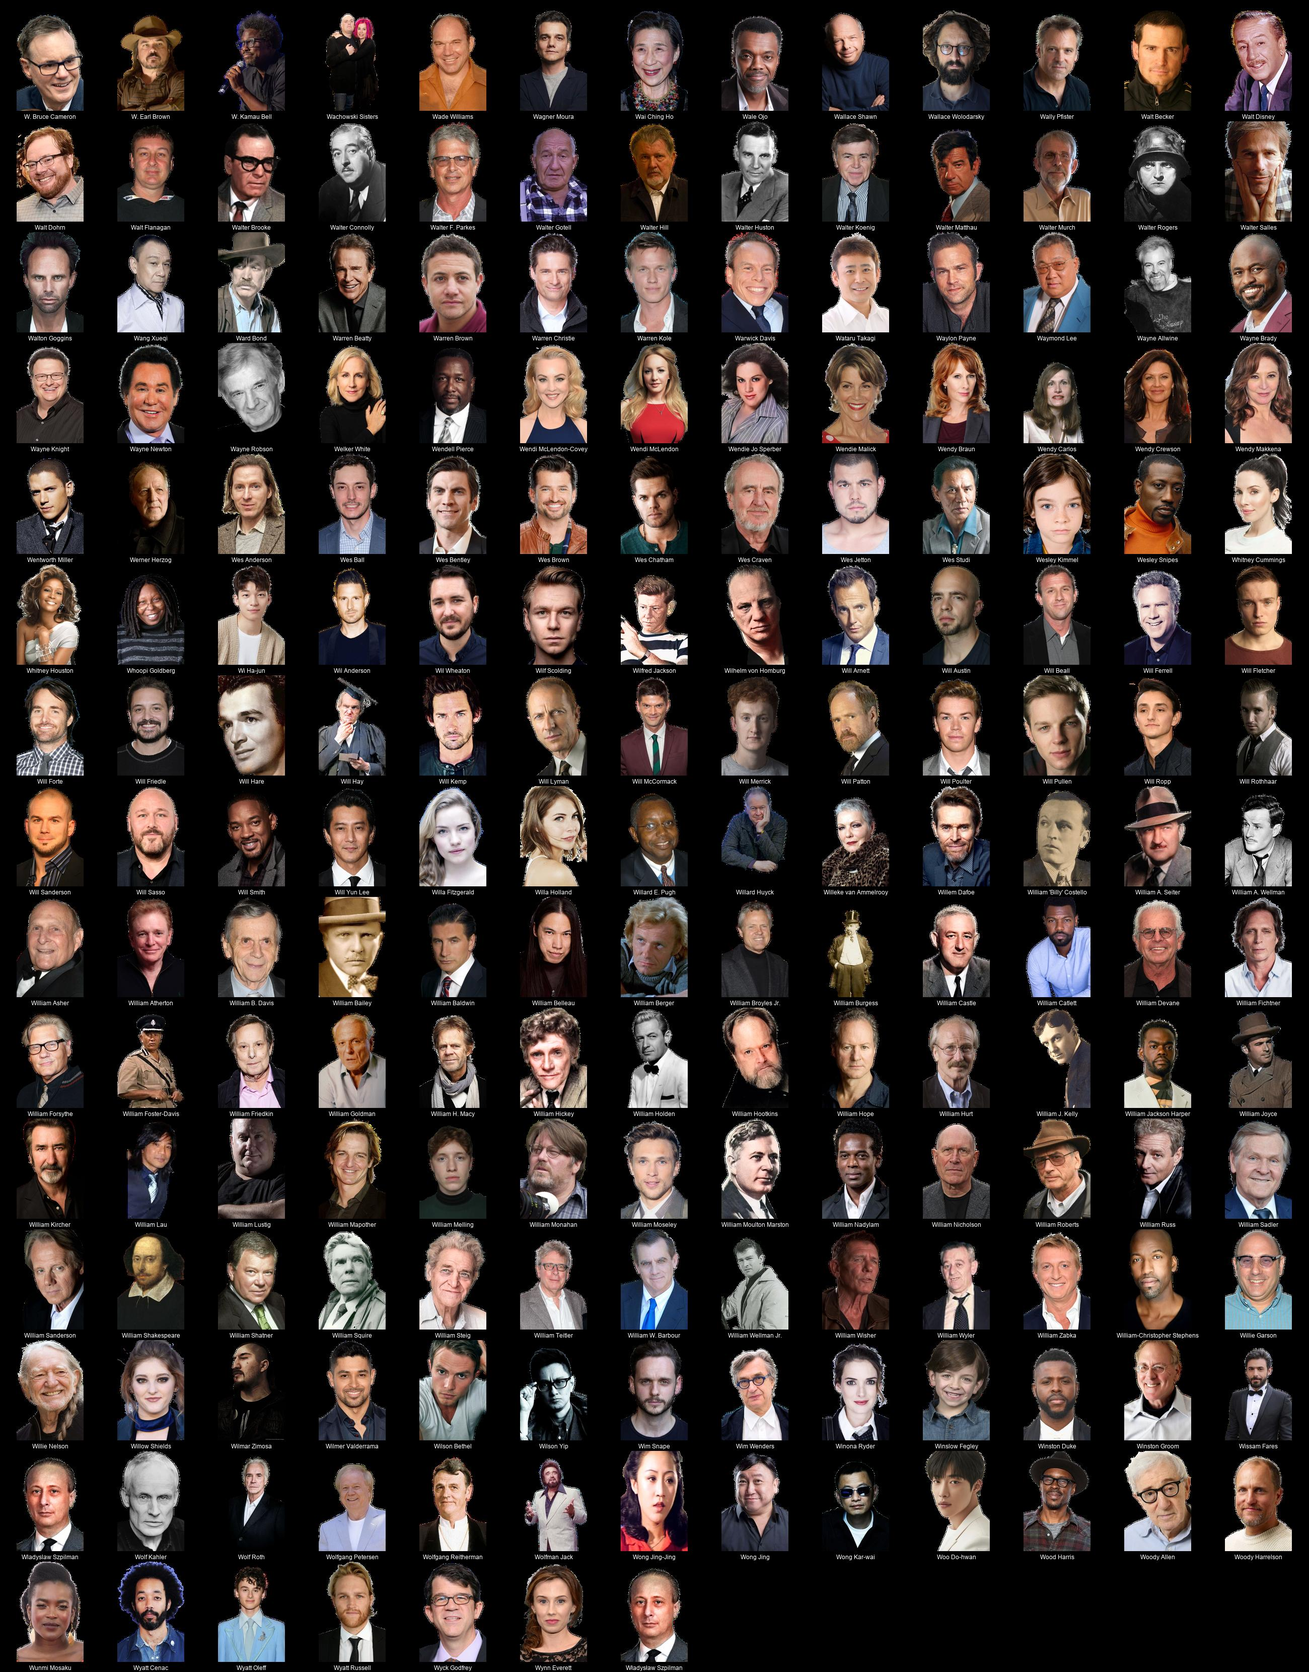
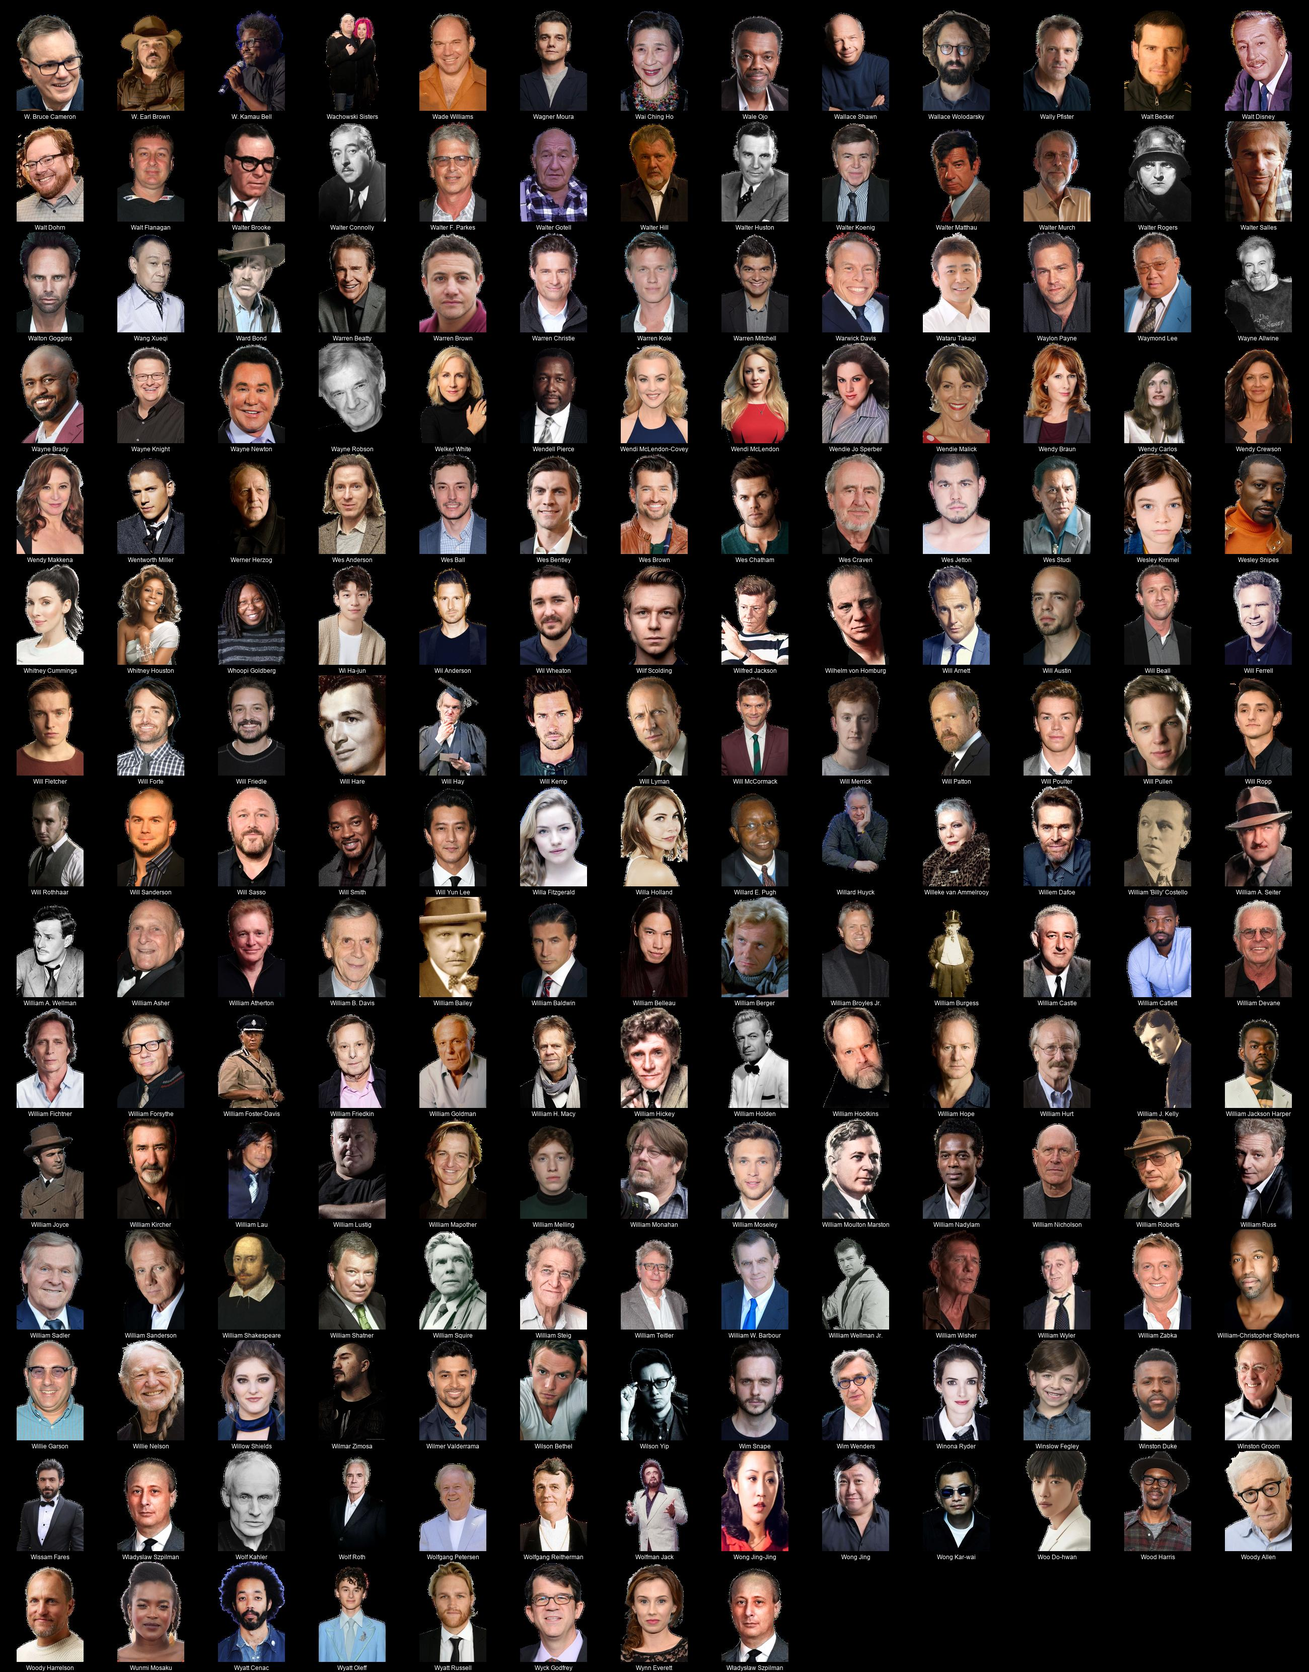
more peeps

diff --git a/README.md b/README.md
@@ -1,4 +1,4 @@
-# Kometa People Images - Transparent (transparent) (10902 Images)
+# Kometa People Images - Transparent (transparent) (10910 Images)
 
 <details><summary><a href="'">' (1 Images)</a></summary>
 
@@ -898,7 +898,7 @@
 * [Azhar Usman](https://raw.githubusercontent.com/Kometa-Team/People-Images-transparent/master/A/Images/Azhar%20Usman.png)
 * [Aziz Ansari](https://raw.githubusercontent.com/Kometa-Team/People-Images-transparent/master/A/Images/Aziz%20Ansari.png)
 </details>
-<details><summary><a href="B">B (546 Images)</a></summary>
+<details><summary><a href="B">B (547 Images)</a></summary>
 
 * [B.F. Blinn](https://raw.githubusercontent.com/Kometa-Team/People-Images-transparent/master/B/Images/B.F.%20Blinn.png)
 * [B.J. Penn](https://raw.githubusercontent.com/Kometa-Team/People-Images-transparent/master/B/Images/B.J.%20Penn.png)
@@ -1418,6 +1418,7 @@
 * [Bryan Singer](https://raw.githubusercontent.com/Kometa-Team/People-Images-transparent/master/B/Images/Bryan%20Singer.png)
 * [Bryan Sloyer](https://raw.githubusercontent.com/Kometa-Team/People-Images-transparent/master/B/Images/Bryan%20Sloyer.png)
 * [Bryan Unkeless](https://raw.githubusercontent.com/Kometa-Team/People-Images-transparent/master/B/Images/Bryan%20Unkeless.png)
+* [Bryan Woods](https://raw.githubusercontent.com/Kometa-Team/People-Images-transparent/master/B/Images/Bryan%20Woods.png)
 * [Bryce Dallas Howard](https://raw.githubusercontent.com/Kometa-Team/People-Images-transparent/master/B/Images/Bryce%20Dallas%20Howard.png)
 * [Bryce Johnson](https://raw.githubusercontent.com/Kometa-Team/People-Images-transparent/master/B/Images/Bryce%20Johnson.png)
 * [Bráulio Mantovani](https://raw.githubusercontent.com/Kometa-Team/People-Images-transparent/master/B/Images/Br%C3%A1ulio%20Mantovani.png)
@@ -2147,7 +2148,7 @@
 * [Cédric Klapisch](https://raw.githubusercontent.com/Kometa-Team/People-Images-transparent/master/C/Images/C%C3%A9dric%20Klapisch.png)
 * [Céline Sciamma](https://raw.githubusercontent.com/Kometa-Team/People-Images-transparent/master/C/Images/C%C3%A9line%20Sciamma.png)
 </details>
-<details><summary><a href="D">D (698 Images)</a></summary>
+<details><summary><a href="D">D (701 Images)</a></summary>
 
 * [D. David Morin](https://raw.githubusercontent.com/Kometa-Team/People-Images-transparent/master/D/Images/D.%20David%20Morin.png)
 * [D.A. Obahor](https://raw.githubusercontent.com/Kometa-Team/People-Images-transparent/master/D/Images/D.A.%20Obahor.png)
@@ -2417,6 +2418,7 @@
 * [David Bruckner](https://raw.githubusercontent.com/Kometa-Team/People-Images-transparent/master/D/Images/David%20Bruckner.png)
 * [David Brückner](https://raw.githubusercontent.com/Kometa-Team/People-Images-transparent/master/D/Images/David%20Br%C3%BCckner.png)
 * [David Butler](https://raw.githubusercontent.com/Kometa-Team/People-Images-transparent/master/D/Images/David%20Butler.png)
+* [David Callaham](https://raw.githubusercontent.com/Kometa-Team/People-Images-transparent/master/D/Images/David%20Callaham.png)
 * [David Carradine](https://raw.githubusercontent.com/Kometa-Team/People-Images-transparent/master/D/Images/David%20Carradine.png)
 * [David Costabile](https://raw.githubusercontent.com/Kometa-Team/People-Images-transparent/master/D/Images/David%20Costabile.png)
 * [David Cowgill](https://raw.githubusercontent.com/Kometa-Team/People-Images-transparent/master/D/Images/David%20Cowgill.png)
@@ -2645,6 +2647,7 @@
 * [Derek Wilson](https://raw.githubusercontent.com/Kometa-Team/People-Images-transparent/master/D/Images/Derek%20Wilson.png)
 * [Dermot Crowley](https://raw.githubusercontent.com/Kometa-Team/People-Images-transparent/master/D/Images/Dermot%20Crowley.png)
 * [Dermot Mulroney](https://raw.githubusercontent.com/Kometa-Team/People-Images-transparent/master/D/Images/Dermot%20Mulroney.png)
+* [Dermot O'Neill](https://raw.githubusercontent.com/Kometa-Team/People-Images-transparent/master/D/Images/Dermot%20O%27Neill.png)
 * [Desmin Borges](https://raw.githubusercontent.com/Kometa-Team/People-Images-transparent/master/D/Images/Desmin%20Borges.png)
 * [Desmond Chiam](https://raw.githubusercontent.com/Kometa-Team/People-Images-transparent/master/D/Images/Desmond%20Chiam.png)
 * [Desmond Harrington](https://raw.githubusercontent.com/Kometa-Team/People-Images-transparent/master/D/Images/Desmond%20Harrington.png)
@@ -2804,6 +2807,7 @@
 * [Douglas Silva](https://raw.githubusercontent.com/Kometa-Team/People-Images-transparent/master/D/Images/Douglas%20Silva.png)
 * [Douglas Sirk](https://raw.githubusercontent.com/Kometa-Team/People-Images-transparent/master/D/Images/Douglas%20Sirk.png)
 * [Douglas Spain](https://raw.githubusercontent.com/Kometa-Team/People-Images-transparent/master/D/Images/Douglas%20Spain.png)
+* [Douglas Wick](https://raw.githubusercontent.com/Kometa-Team/People-Images-transparent/master/D/Images/Douglas%20Wick.png)
 * [Dougray Scott](https://raw.githubusercontent.com/Kometa-Team/People-Images-transparent/master/D/Images/Dougray%20Scott.png)
 * [Doutzen Kroes](https://raw.githubusercontent.com/Kometa-Team/People-Images-transparent/master/D/Images/Doutzen%20Kroes.png)
 * [Dov Davidoff](https://raw.githubusercontent.com/Kometa-Team/People-Images-transparent/master/D/Images/Dov%20Davidoff.png)
@@ -4245,7 +4249,7 @@
 * [Izaac Wang](https://raw.githubusercontent.com/Kometa-Team/People-Images-transparent/master/I/Images/Izaac%20Wang.png)
 * [Izabella Scorupco](https://raw.githubusercontent.com/Kometa-Team/People-Images-transparent/master/I/Images/Izabella%20Scorupco.png)
 </details>
-<details><summary><a href="J">J (1333 Images)</a></summary>
+<details><summary><a href="J">J (1334 Images)</a></summary>
 
 * [J'Dvonte](https://raw.githubusercontent.com/Kometa-Team/People-Images-transparent/master/J/Images/J%27Dvonte.png)
 * [J. A. Bayona](https://raw.githubusercontent.com/Kometa-Team/People-Images-transparent/master/J/Images/J.%20A.%20Bayona.png)
@@ -5299,6 +5303,7 @@
 * [Jonathan Eirich](https://raw.githubusercontent.com/Kometa-Team/People-Images-transparent/master/J/Images/Jonathan%20Eirich.png)
 * [Jonathan Frakes](https://raw.githubusercontent.com/Kometa-Team/People-Images-transparent/master/J/Images/Jonathan%20Frakes.png)
 * [Jonathan Glazer](https://raw.githubusercontent.com/Kometa-Team/People-Images-transparent/master/J/Images/Jonathan%20Glazer.png)
+* [Jonathan Glickman](https://raw.githubusercontent.com/Kometa-Team/People-Images-transparent/master/J/Images/Jonathan%20Glickman.png)
 * [Jonathan Goldstein](https://raw.githubusercontent.com/Kometa-Team/People-Images-transparent/master/J/Images/Jonathan%20Goldstein.png)
 * [Jonathan Good](https://raw.githubusercontent.com/Kometa-Team/People-Images-transparent/master/J/Images/Jonathan%20Good.png)
 * [Jonathan Groff](https://raw.githubusercontent.com/Kometa-Team/People-Images-transparent/master/J/Images/Jonathan%20Groff.png)
@@ -5581,7 +5586,7 @@
 * [Jürgen Prochnow](https://raw.githubusercontent.com/Kometa-Team/People-Images-transparent/master/J/Images/J%C3%BCrgen%20Prochnow.png)
 * [Jūzō Itami](https://raw.githubusercontent.com/Kometa-Team/People-Images-transparent/master/J/Images/J%C5%ABz%C5%8D%20Itami.png)
 </details>
-<details><summary><a href="K">K (529 Images)</a></summary>
+<details><summary><a href="K">K (530 Images)</a></summary>
 
 * [K Raghavendra Rao](https://raw.githubusercontent.com/Kometa-Team/People-Images-transparent/master/K/Images/K%20Raghavendra%20Rao.png)
 * [K.J. Apa](https://raw.githubusercontent.com/Kometa-Team/People-Images-transparent/master/K/Images/K.J.%20Apa.png)
@@ -5752,6 +5757,7 @@
 * [Kazuki Kitamura](https://raw.githubusercontent.com/Kometa-Team/People-Images-transparent/master/K/Images/Kazuki%20Kitamura.png)
 * [Kazuko Yanaga](https://raw.githubusercontent.com/Kometa-Team/People-Images-transparent/master/K/Images/Kazuko%20Yanaga.png)
 * [Kazunari Tanaka](https://raw.githubusercontent.com/Kometa-Team/People-Images-transparent/master/K/Images/Kazunari%20Tanaka.png)
+* [Kazuya Nomura](https://raw.githubusercontent.com/Kometa-Team/People-Images-transparent/master/K/Images/Kazuya%20Nomura.png)
 * [Kazuya Shiraishi](https://raw.githubusercontent.com/Kometa-Team/People-Images-transparent/master/K/Images/Kazuya%20Shiraishi.png)
 * [Kazuya Tsurumaki](https://raw.githubusercontent.com/Kometa-Team/People-Images-transparent/master/K/Images/Kazuya%20Tsurumaki.png)
 * [Kazuyuki Okitsu](https://raw.githubusercontent.com/Kometa-Team/People-Images-transparent/master/K/Images/Kazuyuki%20Okitsu.png)
@@ -8464,7 +8470,7 @@
 * [Quinn Duffy](https://raw.githubusercontent.com/Kometa-Team/People-Images-transparent/master/Q/Images/Quinn%20Duffy.png)
 * [Quinton Jackson](https://raw.githubusercontent.com/Kometa-Team/People-Images-transparent/master/Q/Images/Quinton%20Jackson.png)
 </details>
-<details><summary><a href="R">R (691 Images)</a></summary>
+<details><summary><a href="R">R (692 Images)</a></summary>
 
 * [R. Lee Ermey](https://raw.githubusercontent.com/Kometa-Team/People-Images-transparent/master/R/Images/R.%20Lee%20Ermey.png)
 * [R. Madhavan](https://raw.githubusercontent.com/Kometa-Team/People-Images-transparent/master/R/Images/R.%20Madhavan.png)
@@ -8778,6 +8784,7 @@
 * [Rie Kugimiya](https://raw.githubusercontent.com/Kometa-Team/People-Images-transparent/master/R/Images/Rie%20Kugimiya.png)
 * [Rie Takahashi](https://raw.githubusercontent.com/Kometa-Team/People-Images-transparent/master/R/Images/Rie%20Takahashi.png)
 * [Rieko Takahashi](https://raw.githubusercontent.com/Kometa-Team/People-Images-transparent/master/R/Images/Rieko%20Takahashi.png)
+* [Rik Mayall](https://raw.githubusercontent.com/Kometa-Team/People-Images-transparent/master/R/Images/Rik%20Mayall.png)
 * [Riki Lindhome](https://raw.githubusercontent.com/Kometa-Team/People-Images-transparent/master/R/Images/Riki%20Lindhome.png)
 * [Riki Takeuchi](https://raw.githubusercontent.com/Kometa-Team/People-Images-transparent/master/R/Images/Riki%20Takeuchi.png)
 * [Rikiya Koyama](https://raw.githubusercontent.com/Kometa-Team/People-Images-transparent/master/R/Images/Rikiya%20Koyama.png)
@@ -10618,7 +10625,7 @@
 * [Von Lewis](https://raw.githubusercontent.com/Kometa-Team/People-Images-transparent/master/V/Images/Von%20Lewis.png)
 * [Věra Chytilová](https://raw.githubusercontent.com/Kometa-Team/People-Images-transparent/master/V/Images/V%C4%9Bra%20Chytilov%C3%A1.png)
 </details>
-<details><summary><a href="W">W (189 Images)</a></summary>
+<details><summary><a href="W">W (190 Images)</a></summary>
 
 * [W. Bruce Cameron](https://raw.githubusercontent.com/Kometa-Team/People-Images-transparent/master/W/Images/W.%20Bruce%20Cameron.png)
 * [W. Earl Brown](https://raw.githubusercontent.com/Kometa-Team/People-Images-transparent/master/W/Images/W.%20Earl%20Brown.png)
@@ -10653,6 +10660,7 @@
 * [Warren Brown](https://raw.githubusercontent.com/Kometa-Team/People-Images-transparent/master/W/Images/Warren%20Brown.png)
 * [Warren Christie](https://raw.githubusercontent.com/Kometa-Team/People-Images-transparent/master/W/Images/Warren%20Christie.png)
 * [Warren Kole](https://raw.githubusercontent.com/Kometa-Team/People-Images-transparent/master/W/Images/Warren%20Kole.png)
+* [Warren Mitchell](https://raw.githubusercontent.com/Kometa-Team/People-Images-transparent/master/W/Images/Warren%20Mitchell.png)
 * [Warwick Davis](https://raw.githubusercontent.com/Kometa-Team/People-Images-transparent/master/W/Images/Warwick%20Davis.png)
 * [Wataru Takagi](https://raw.githubusercontent.com/Kometa-Team/People-Images-transparent/master/W/Images/Wataru%20Takagi.png)
 * [Waylon Payne](https://raw.githubusercontent.com/Kometa-Team/People-Images-transparent/master/W/Images/Waylon%20Payne.png)

diff --git a/D/README.md b/D/README.md
@@ -1,4 +1,4 @@
-# Kometa People Images - Transparent (transparent) - D (698 Images)
+# Kometa People Images - Transparent (transparent) - D (701 Images)
 ![Grid](grid.jpg)
 
 * [D. David Morin](https://raw.githubusercontent.com/Kometa-Team/People-Images-transparent/master/D/Images/D.%20David%20Morin.png)
@@ -269,6 +269,7 @@
 * [David Bruckner](https://raw.githubusercontent.com/Kometa-Team/People-Images-transparent/master/D/Images/David%20Bruckner.png)
 * [David Brückner](https://raw.githubusercontent.com/Kometa-Team/People-Images-transparent/master/D/Images/David%20Br%C3%BCckner.png)
 * [David Butler](https://raw.githubusercontent.com/Kometa-Team/People-Images-transparent/master/D/Images/David%20Butler.png)
+* [David Callaham](https://raw.githubusercontent.com/Kometa-Team/People-Images-transparent/master/D/Images/David%20Callaham.png)
 * [David Carradine](https://raw.githubusercontent.com/Kometa-Team/People-Images-transparent/master/D/Images/David%20Carradine.png)
 * [David Costabile](https://raw.githubusercontent.com/Kometa-Team/People-Images-transparent/master/D/Images/David%20Costabile.png)
 * [David Cowgill](https://raw.githubusercontent.com/Kometa-Team/People-Images-transparent/master/D/Images/David%20Cowgill.png)
@@ -497,6 +498,7 @@
 * [Derek Wilson](https://raw.githubusercontent.com/Kometa-Team/People-Images-transparent/master/D/Images/Derek%20Wilson.png)
 * [Dermot Crowley](https://raw.githubusercontent.com/Kometa-Team/People-Images-transparent/master/D/Images/Dermot%20Crowley.png)
 * [Dermot Mulroney](https://raw.githubusercontent.com/Kometa-Team/People-Images-transparent/master/D/Images/Dermot%20Mulroney.png)
+* [Dermot O'Neill](https://raw.githubusercontent.com/Kometa-Team/People-Images-transparent/master/D/Images/Dermot%20O%27Neill.png)
 * [Desmin Borges](https://raw.githubusercontent.com/Kometa-Team/People-Images-transparent/master/D/Images/Desmin%20Borges.png)
 * [Desmond Chiam](https://raw.githubusercontent.com/Kometa-Team/People-Images-transparent/master/D/Images/Desmond%20Chiam.png)
 * [Desmond Harrington](https://raw.githubusercontent.com/Kometa-Team/People-Images-transparent/master/D/Images/Desmond%20Harrington.png)
@@ -656,6 +658,7 @@
 * [Douglas Silva](https://raw.githubusercontent.com/Kometa-Team/People-Images-transparent/master/D/Images/Douglas%20Silva.png)
 * [Douglas Sirk](https://raw.githubusercontent.com/Kometa-Team/People-Images-transparent/master/D/Images/Douglas%20Sirk.png)
 * [Douglas Spain](https://raw.githubusercontent.com/Kometa-Team/People-Images-transparent/master/D/Images/Douglas%20Spain.png)
+* [Douglas Wick](https://raw.githubusercontent.com/Kometa-Team/People-Images-transparent/master/D/Images/Douglas%20Wick.png)
 * [Dougray Scott](https://raw.githubusercontent.com/Kometa-Team/People-Images-transparent/master/D/Images/Dougray%20Scott.png)
 * [Doutzen Kroes](https://raw.githubusercontent.com/Kometa-Team/People-Images-transparent/master/D/Images/Doutzen%20Kroes.png)
 * [Dov Davidoff](https://raw.githubusercontent.com/Kometa-Team/People-Images-transparent/master/D/Images/Dov%20Davidoff.png)

diff --git a/K/README.md b/K/README.md
@@ -1,4 +1,4 @@
-# Kometa People Images - Transparent (transparent) - K (529 Images)
+# Kometa People Images - Transparent (transparent) - K (530 Images)
 ![Grid](grid.jpg)
 
 * [K Raghavendra Rao](https://raw.githubusercontent.com/Kometa-Team/People-Images-transparent/master/K/Images/K%20Raghavendra%20Rao.png)
@@ -170,6 +170,7 @@
 * [Kazuki Kitamura](https://raw.githubusercontent.com/Kometa-Team/People-Images-transparent/master/K/Images/Kazuki%20Kitamura.png)
 * [Kazuko Yanaga](https://raw.githubusercontent.com/Kometa-Team/People-Images-transparent/master/K/Images/Kazuko%20Yanaga.png)
 * [Kazunari Tanaka](https://raw.githubusercontent.com/Kometa-Team/People-Images-transparent/master/K/Images/Kazunari%20Tanaka.png)
+* [Kazuya Nomura](https://raw.githubusercontent.com/Kometa-Team/People-Images-transparent/master/K/Images/Kazuya%20Nomura.png)
 * [Kazuya Shiraishi](https://raw.githubusercontent.com/Kometa-Team/People-Images-transparent/master/K/Images/Kazuya%20Shiraishi.png)
 * [Kazuya Tsurumaki](https://raw.githubusercontent.com/Kometa-Team/People-Images-transparent/master/K/Images/Kazuya%20Tsurumaki.png)
 * [Kazuyuki Okitsu](https://raw.githubusercontent.com/Kometa-Team/People-Images-transparent/master/K/Images/Kazuyuki%20Okitsu.png)

diff --git a/J/README.md b/J/README.md
@@ -1,4 +1,4 @@
-# Kometa People Images - Transparent (transparent) - J (1333 Images)
+# Kometa People Images - Transparent (transparent) - J (1334 Images)
 ![Grid](grid.jpg)
 
 * [J'Dvonte](https://raw.githubusercontent.com/Kometa-Team/People-Images-transparent/master/J/Images/J%27Dvonte.png)
@@ -1053,6 +1053,7 @@
 * [Jonathan Eirich](https://raw.githubusercontent.com/Kometa-Team/People-Images-transparent/master/J/Images/Jonathan%20Eirich.png)
 * [Jonathan Frakes](https://raw.githubusercontent.com/Kometa-Team/People-Images-transparent/master/J/Images/Jonathan%20Frakes.png)
 * [Jonathan Glazer](https://raw.githubusercontent.com/Kometa-Team/People-Images-transparent/master/J/Images/Jonathan%20Glazer.png)
+* [Jonathan Glickman](https://raw.githubusercontent.com/Kometa-Team/People-Images-transparent/master/J/Images/Jonathan%20Glickman.png)
 * [Jonathan Goldstein](https://raw.githubusercontent.com/Kometa-Team/People-Images-transparent/master/J/Images/Jonathan%20Goldstein.png)
 * [Jonathan Good](https://raw.githubusercontent.com/Kometa-Team/People-Images-transparent/master/J/Images/Jonathan%20Good.png)
 * [Jonathan Groff](https://raw.githubusercontent.com/Kometa-Team/People-Images-transparent/master/J/Images/Jonathan%20Groff.png)

diff --git a/B/README.md b/B/README.md
@@ -1,4 +1,4 @@
-# Kometa People Images - Transparent (transparent) - B (546 Images)
+# Kometa People Images - Transparent (transparent) - B (547 Images)
 ![Grid](grid.jpg)
 
 * [B.F. Blinn](https://raw.githubusercontent.com/Kometa-Team/People-Images-transparent/master/B/Images/B.F.%20Blinn.png)
@@ -519,6 +519,7 @@
 * [Bryan Singer](https://raw.githubusercontent.com/Kometa-Team/People-Images-transparent/master/B/Images/Bryan%20Singer.png)
 * [Bryan Sloyer](https://raw.githubusercontent.com/Kometa-Team/People-Images-transparent/master/B/Images/Bryan%20Sloyer.png)
 * [Bryan Unkeless](https://raw.githubusercontent.com/Kometa-Team/People-Images-transparent/master/B/Images/Bryan%20Unkeless.png)
+* [Bryan Woods](https://raw.githubusercontent.com/Kometa-Team/People-Images-transparent/master/B/Images/Bryan%20Woods.png)
 * [Bryce Dallas Howard](https://raw.githubusercontent.com/Kometa-Team/People-Images-transparent/master/B/Images/Bryce%20Dallas%20Howard.png)
 * [Bryce Johnson](https://raw.githubusercontent.com/Kometa-Team/People-Images-transparent/master/B/Images/Bryce%20Johnson.png)
 * [Bráulio Mantovani](https://raw.githubusercontent.com/Kometa-Team/People-Images-transparent/master/B/Images/Br%C3%A1ulio%20Mantovani.png)

diff --git a/W/README.md b/W/README.md
@@ -1,4 +1,4 @@
-# Kometa People Images - Transparent (transparent) - W (189 Images)
+# Kometa People Images - Transparent (transparent) - W (190 Images)
 ![Grid](grid.jpg)
 
 * [W. Bruce Cameron](https://raw.githubusercontent.com/Kometa-Team/People-Images-transparent/master/W/Images/W.%20Bruce%20Cameron.png)
@@ -34,6 +34,7 @@
 * [Warren Brown](https://raw.githubusercontent.com/Kometa-Team/People-Images-transparent/master/W/Images/Warren%20Brown.png)
 * [Warren Christie](https://raw.githubusercontent.com/Kometa-Team/People-Images-transparent/master/W/Images/Warren%20Christie.png)
 * [Warren Kole](https://raw.githubusercontent.com/Kometa-Team/People-Images-transparent/master/W/Images/Warren%20Kole.png)
+* [Warren Mitchell](https://raw.githubusercontent.com/Kometa-Team/People-Images-transparent/master/W/Images/Warren%20Mitchell.png)
 * [Warwick Davis](https://raw.githubusercontent.com/Kometa-Team/People-Images-transparent/master/W/Images/Warwick%20Davis.png)
 * [Wataru Takagi](https://raw.githubusercontent.com/Kometa-Team/People-Images-transparent/master/W/Images/Wataru%20Takagi.png)
 * [Waylon Payne](https://raw.githubusercontent.com/Kometa-Team/People-Images-transparent/master/W/Images/Waylon%20Payne.png)

diff --git a/R/README.md b/R/README.md
@@ -1,4 +1,4 @@
-# Kometa People Images - Transparent (transparent) - R (691 Images)
+# Kometa People Images - Transparent (transparent) - R (692 Images)
 ![Grid](grid.jpg)
 
 * [R. Lee Ermey](https://raw.githubusercontent.com/Kometa-Team/People-Images-transparent/master/R/Images/R.%20Lee%20Ermey.png)
@@ -313,6 +313,7 @@
 * [Rie Kugimiya](https://raw.githubusercontent.com/Kometa-Team/People-Images-transparent/master/R/Images/Rie%20Kugimiya.png)
 * [Rie Takahashi](https://raw.githubusercontent.com/Kometa-Team/People-Images-transparent/master/R/Images/Rie%20Takahashi.png)
 * [Rieko Takahashi](https://raw.githubusercontent.com/Kometa-Team/People-Images-transparent/master/R/Images/Rieko%20Takahashi.png)
+* [Rik Mayall](https://raw.githubusercontent.com/Kometa-Team/People-Images-transparent/master/R/Images/Rik%20Mayall.png)
 * [Riki Lindhome](https://raw.githubusercontent.com/Kometa-Team/People-Images-transparent/master/R/Images/Riki%20Lindhome.png)
 * [Riki Takeuchi](https://raw.githubusercontent.com/Kometa-Team/People-Images-transparent/master/R/Images/Riki%20Takeuchi.png)
 * [Rikiya Koyama](https://raw.githubusercontent.com/Kometa-Team/People-Images-transparent/master/R/Images/Rikiya%20Koyama.png)
